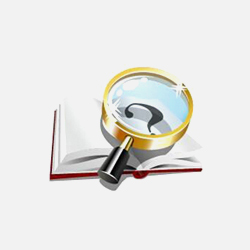
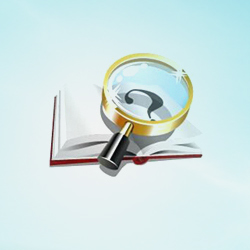
'editStyles'

diff --git a/src/components/RolePlay.jsx b/src/components/RolePlay.jsx
@@ -18,33 +18,39 @@ export default class RolePlay extends Component {
     }
 
     render() {
-        let col = 6;
+        let col = 4;
         const imageShapeInstance = (
-            <Grid style={{margin:'100px auto', width:'60%'}}>
-                <Row>
-                    <IndexLink to='/learning'>{'<< '}返回上级</IndexLink>
-                </Row>
-                <Row onClick={this.handleClick} className="main-container">
-                    <Col md={col}>
-                        <div className="div-center">
-                            <Image src="/assets/icon_reception.jpg" circle className="clicked" name="/panoramic?mode=1&role=0"/>
-                            <div className="img-label">前台</div>
-                        </div>
-                    </Col>
-                    <Col md={col}>
-                        <div className="div-center">
-                            <Image src="/assets/icon_doctor.jpg" circle className="clicked" name="/panoramic?mode=1&role=1"/>
-                            <div className="img-label">兽医</div>
-                        </div>
-                    </Col>
-                    <Col md={col}>
-                        <div className="div-center">
-                            <Image src="/assets/icon_assistant.jpg" circle className="clicked" name="/panoramic?mode=1&role=2"/>
-                            <div className="img-label">助理</div>
-                        </div>
-                    </Col>
-                </Row>
-            </Grid>
+            <div className="main-outer-box">
+                <Grid className="main-inner-box">
+                    <Row>
+                        <Col md={10}><h1 style={{color:'#fff',textShadow:'0 0 5px #3f8dc9'}}>虚拟宠物医院学习系统 | 角色扮演</h1></Col>
+                        <Col md={2}><IndexLink className="btn-menu-link" to='/learning'>返回上级 <span className="glyphicon glyphicon-triangle-top"></span></IndexLink></Col>
+                    </Row>
+                    <Row style={{textAlign:'center',marginTop:'140px'}}>
+                        <h3 style={{color:'#fff',textShadow:'1px 1px 1px #666'}}>请选择您要扮演的角色</h3>
+                    </Row>
+                    <Row onClick={this.handleClick} className="main-container">
+                        <Col md={col}>
+                            <div className="div-center">
+                                <Image src="/assets/icon_reception.jpg" circle className="clicked" name="/panoramic?mode=1&role=0"/>
+                                <div className="img-label">前台</div>
+                            </div>
+                        </Col>
+                        <Col md={col}>
+                            <div className="div-center" style={{marginTop:'100px'}}>
+                                <Image src="/assets/icon_doctor.jpg" circle className="clicked" name="/panoramic?mode=1&role=1"/>
+                                <div className="img-label">兽医</div>
+                            </div>
+                        </Col>
+                        <Col md={col}>
+                            <div className="div-center">
+                                <Image src="/assets/icon_assistant.jpg" circle className="clicked" name="/panoramic?mode=1&role=2"/>
+                                <div className="img-label">助理</div>
+                            </div>
+                        </Col>
+                    </Row>
+                </Grid>
+            </div>
         );
         return imageShapeInstance;
     }

diff --git a/src/components/Main.jsx b/src/components/Main.jsx
@@ -23,31 +23,34 @@ export default class Main extends Component {
         if (userType === 1) col = 4;
         else  col = 6;
         const imageShapeInstance = (
-            <Grid style={{margin:'100px auto', width:'60%'}}>
-                <Row>
-                    <IndexLink to='/'>{'<< '}返回上级</IndexLink>
-                </Row>
-                <Row onClick={this.handleClick} className="main-container">
-                    <Col md={col}>
-                        <div className="div-center">
-                            <Image src="/assets/icon_panoramic.jpg" circle className="clicked" name="/panoramic?mode=0"/>
-                            <div className="img-label">3D导览</div>
-                        </div>
-                    </Col>
-                    <Col md={col}>
-                        <div className="div-center">
-                            <Image src="/assets/icon_learning.jpg" circle className="clicked" name="/learning"/>
-                            <div className="img-label">职能学习</div>
-                        </div>
-                    </Col>
-                    {userType === 1 ? <Col md={col}>
+            <div className="main-outer-box">
+                <Grid className="main-inner-box">
+                    <Row>
+                        <Col md={10}><h1 style={{color:'#fff',textShadow:'0 0 5px #3f8dc9'}}>虚拟宠物医院学习系统 | 主界面</h1></Col>
+                        <Col md={2}><IndexLink className="btn-menu-link" to='/'>返回上级 <span className="glyphicon glyphicon-triangle-top"></span></IndexLink></Col>
+                    </Row>
+                    <Row onClick={this.handleClick} className="main-container" style={{marginTop:'140px'}}>
+                        <Col md={col}>
+                            <div className="div-center">
+                                <Image src="/assets/icon_panoramic.jpg" circle className="clicked" name="/panoramic?mode=0"/>
+                                <div className="img-label">3D导览</div>
+                            </div>
+                        </Col>
+                        <Col md={col}>
+                            <div className="div-center">
+                                <Image src="/assets/icon_learning.jpg" circle className="clicked" name="/learning"/>
+                                <div className="img-label">职能学习</div>
+                            </div>
+                        </Col>
+                        {userType === 1 ? <Col md={col}>
                             <div className="div-center">
                                 <Image src="/assets/icon_manage.jpg" circle className="clicked" name="/admin"/>
                                 <div className="img-label">后台管理</div>
                             </div>
                         </Col> : ''}
-                </Row>
-            </Grid>
+                    </Row>
+                </Grid>
+            </div>
         );
         return imageShapeInstance;
     }

diff --git a/src/components/Learning.js b/src/components/Learning.js
@@ -20,25 +20,28 @@ export default class Learning extends Component {
     render() {
         let col = 6;
         const imageShapeInstance = (
-            <Grid style={{margin:'100px auto', width:'60%'}}>
-                <Row>
-                    <IndexLink to='/main'>{'<< '}返回上级</IndexLink>
-                </Row>
-                <Row onClick={this.handleClick} className="main-container">
-                    <Col md={col}>
-                        <div className="div-center">
-                            <Image src="/assets/icon_role.jpg" circle className="clicked" name="/learning/roleplay"/>
-                            <div className="img-label">角色扮演</div>
-                        </div>
-                    </Col>
-                    <Col md={col}>
-                        <div className="div-center">
-                            <Image src="/assets/icon_case.jpg" circle className="clicked" name="/learning/casenav"/>
-                            <div className="img-label">病例学习</div>
-                        </div>
-                    </Col>
-                </Row>
-            </Grid>
+            <div className="main-outer-box">
+                <Grid className="main-inner-box">
+                    <Row>
+                        <Col md={10}><h1 style={{color:'#fff',textShadow:'0 0 5px #3f8dc9'}}>虚拟宠物医院学习系统 | 职能学习</h1></Col>
+                        <Col md={2}><IndexLink className="btn-menu-link" to='/main'>返回上级 <span className="glyphicon glyphicon-triangle-top"></span></IndexLink></Col>
+                    </Row>
+                    <Row onClick={this.handleClick} className="main-container" style={{marginTop:'140px'}}>
+                        <Col md={col}>
+                            <div className="div-center">
+                                <Image src="/assets/icon_role.jpg" circle className="clicked" name="/learning/roleplay"/>
+                                <div className="img-label">角色扮演</div>
+                            </div>
+                        </Col>
+                        <Col md={col}>
+                            <div className="div-center">
+                                <Image src="/assets/icon_case.jpg" circle className="clicked" name="/learning/casenav"/>
+                                <div className="img-label">病例学习</div>
+                            </div>
+                        </Col>
+                    </Row>
+                </Grid>
+            </div>
         );
         return imageShapeInstance;
     }

diff --git a/src/css/main.css b/src/css/main.css
@@ -1,28 +1,70 @@
+.main-outer-box{
+    position: relative;
+    width: 100%;
+    height:100%;
+    background-image: url("/assets/bg.jpg");
+    -webkit-background-size:cover;
+    background-size:cover;
+    overflow: hidden;
+}
+
+.main-inner-box{
+    margin:30px auto;
+    width:60%;
+}
+
 .main-container{
-    height: 400px;
+    height: 200px;
     display: flex;
     align-items: center;
     justify-content: center;
 }
 
 .div-center{
-    text-align: center;
+    display: flex;
+    align-items: center;
+    justify-content: center;
+    position: relative;
+}
+
+.col-md-6 > .div-center{
+    margin:30px;
 }
 
 .img-label{
-    margin: 20px;
+    position: absolute;
+    bottom: 8%;
     font-size: 1.3em;
     color: darkcyan;
 }
 
 .clicked{
+    box-shadow: 0 4px 8px 0 rgba(0, 0, 0, 0.2), 0 6px 20px 0 rgba(0, 0, 0, 0.19);
     cursor: pointer;
     width: 80%;
     height:auto;
 }
 
 .clicked:hover{
-    box-shadow: 0 4px 8px 0 rgba(0, 0, 0, 0.2), 0 6px 20px 0 rgba(0, 0, 0, 0.19);
     width: 90%;
     height:auto;
+}
+
+.btn-menu-link{
+    display: block;
+    text-align: center;
+    margin-top:27px;
+    padding:3px;
+    color:#fff;
+    border:2px #fff solid;
+    -webkit-border-radius:15px;
+    -moz-border-radius:15px;
+    border-radius:15px;
+    font-family: '华文琥珀',sans-serif;
+}
+.btn-menu-link:hover,
+.btn-menu-link:active{
+    color:#c4dff4;
+    border:2px #c4dff4 solid;
+    text-decoration: none;
 }

diff --git a/src/css/login.css b/src/css/login.css
@@ -15,20 +15,23 @@
 }
 
 .login-background{
-    min-height: 700px;
+    /*min-height: 700px;
     min-width: 1200px;
-    background: url("/assets/login_background.png") no-repeat center;
+    background: url("/assets/bg_login.jpg") no-repeat;
     height: auto;
     -webkit-background-size:80% 100%;
-    background-size:80% 100%;
+    background-size:80% 100%;*/
+    width: 100%;
+    height: 100%;
+    background: url("/assets/bg_login.jpg");
 }
 
 .login{
-    width : 25%;
+    width : 30%;
     min-width:200px;
     position: absolute;
     padding : 20px;
-    left: 12%;
+    left: 10%;
     top : 42%;
 }
 
@@ -37,7 +40,7 @@
 }
 
 .input{
-    background: #678CB6;
+    background: #97bdd8;
     color: white;
 }
 
